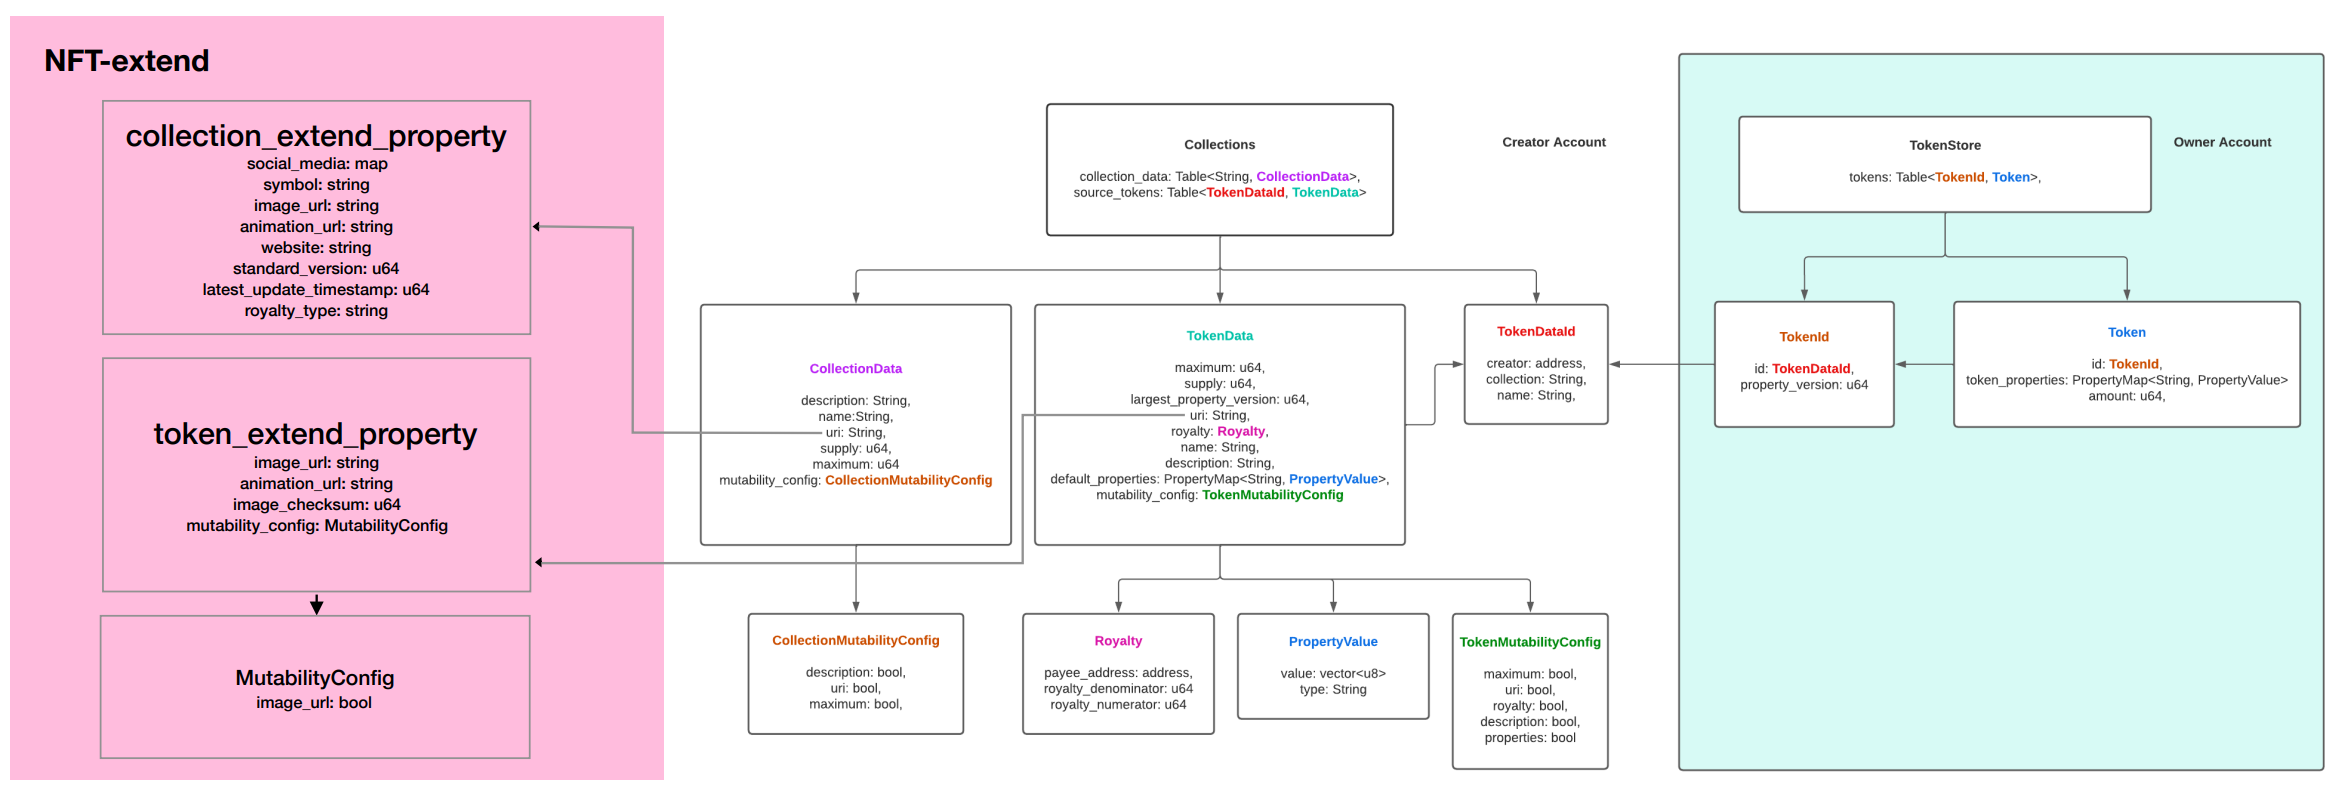
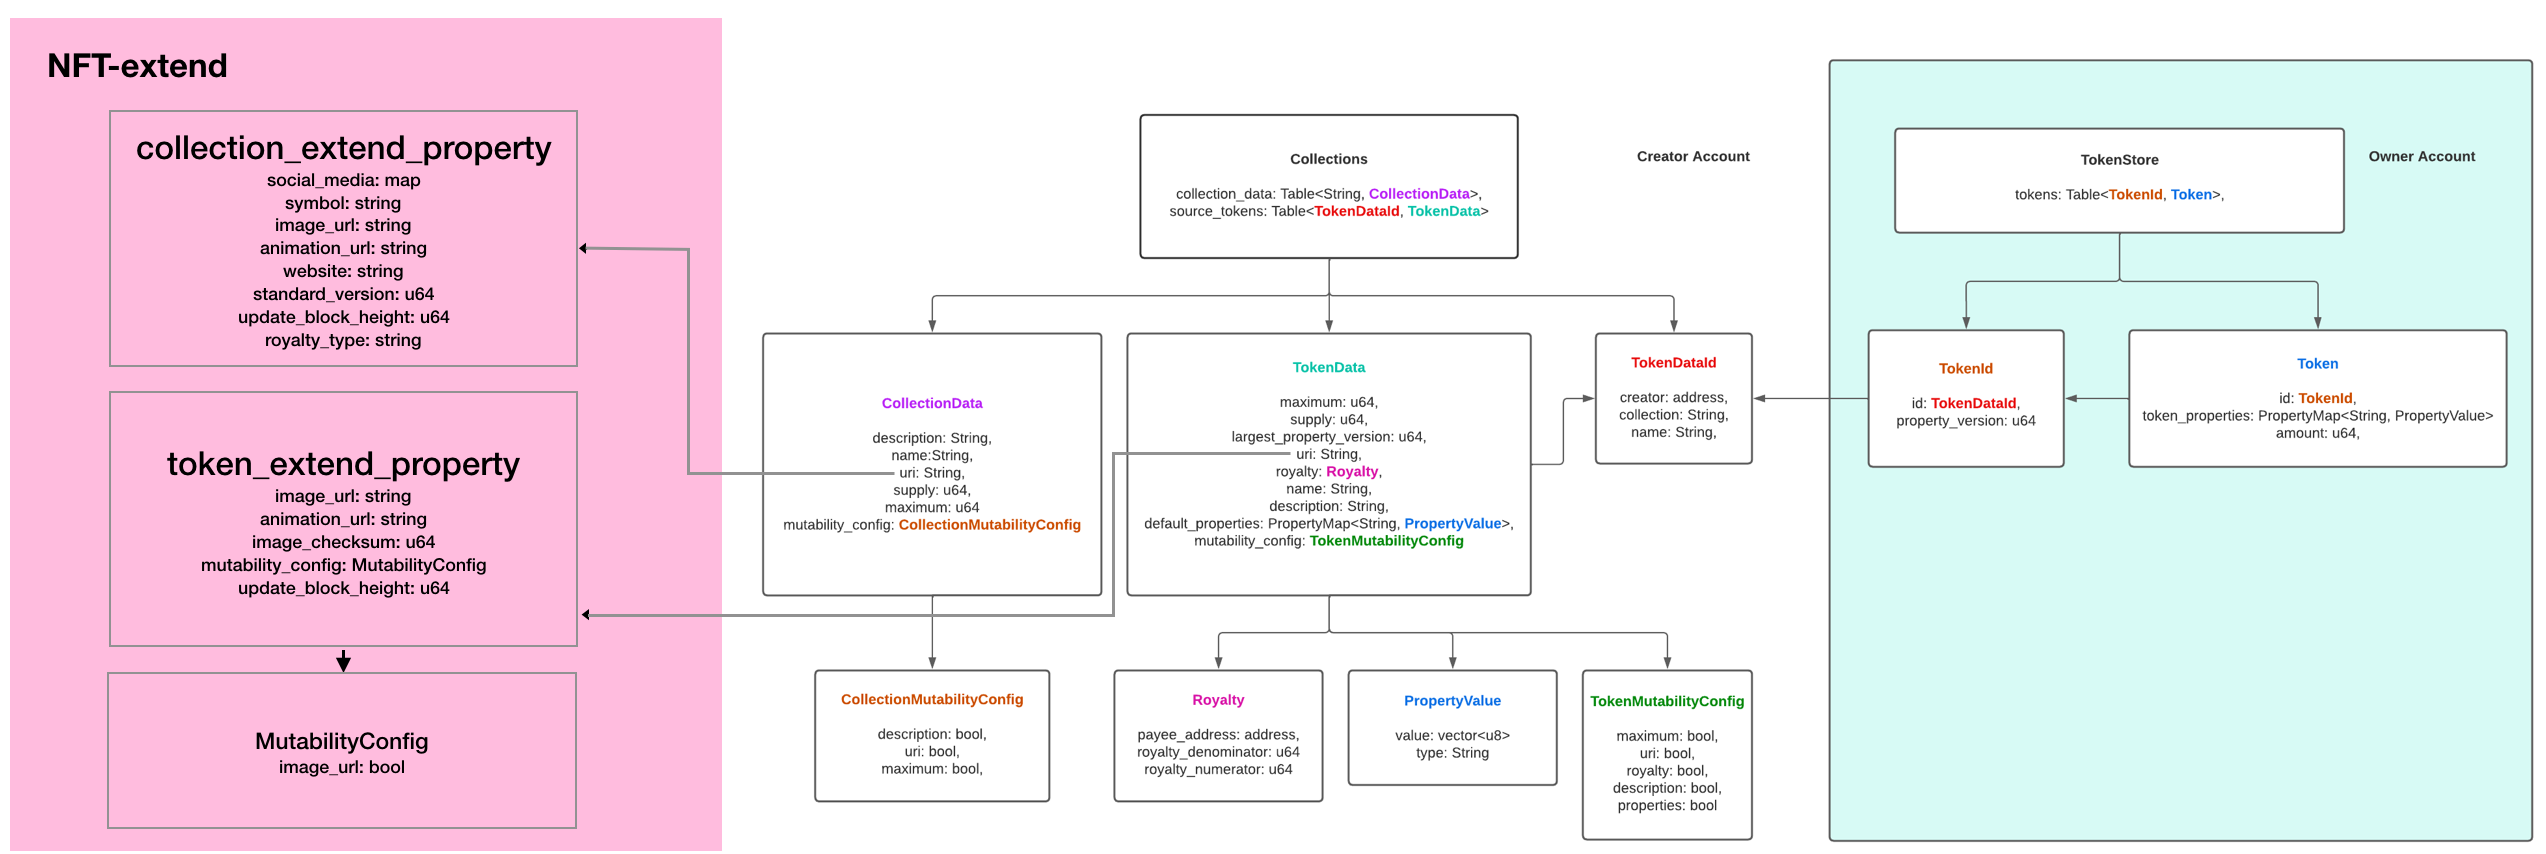
pre release

diff --git a/NFT-standard/NFT-standard.md b/NFT-standard/NFT-standard.md
@@ -6,7 +6,7 @@ The extensions will be done in two parts, one is the collection, and the other i
 # Collections
 
 The standard extension is based on [token.move](https://github.com/aptos-labs/aptos-core/blob/main/aptos-move/framework/aptos-token/sources/token.move) in aptos-token.
-[token.move](https://github.com/aptos-labs/aptos-core/blob/main/aptos-move/framework/aptos-token/sources/token.move) defined the fields in the collection section as following.
+[token.move](https://github.com/aptos-labs/aptos-core/blob/main/aptos-move/framework/aptos-token/sources/token.move) defined the fields in the collection section as follows.
 
 |Metadata	|Type	|Description	|
 |---	|---	|---	|
@@ -15,12 +15,11 @@ The standard extension is based on [token.move](https://github.com/aptos-labs/ap
 |uri	|string 	|Used to locate additional information of this collection	|
 |supply	|u64	|The total amount of token_data issued by the current collection	|
 |maximum	|u64 	|The maximum number of token_data this collection can issue	|
-|mutability_config	|Collection MutabilityConfig |Defines the mutability of description, uri, and maximum|
-
+|mutability_config	|Collection MutabilityConfig 	|Defines the mutability of description, uri, and maximum |
 
 ## extend_property
 
-The extension standard will be implemented using a contract, and the extension properties defined in the contract can be located by uri. uri is described as nft://{contract_address}/{creator::collection}
+The extension standard will be implemented using a contract, and the extension properties defined in the contract can be located by URI. URI is described as nft://{contract_address}/{creator::collection}
 
 |Metadata	|Type	|Description	|
 |---	|---	|---	|
@@ -31,9 +30,8 @@ The extension standard will be implemented using a contract, and the extension p
 |website	|string 	|Collection corresponding official website address	|
 |standard_version	|u64	|The version number will be updated when the collection data is updated.	|
 |commercial_standard	|string	|Used to describe the business protocol standards that collection adheres to, such as cc0, cc by	|
-|update_timestamp	|u64	|Record the timestamp of the last update of the collection, track the update time and compare the content before and after the update	|
-|royalty_policy	|string 	|Describes  which royalty policy to follow，such as x2y2	|
-
+|update_block_height	|u64	|Record the block height of the last update of the collection, track the update time and compare the content before and after the update	|
+|royalty_policy	|string 	|Describes  which royalty policy to follow, such as x2y2	|
 
 # Token
 
@@ -41,18 +39,81 @@ The extension standard will be implemented using a contract, and the extension p
 
 ### extend_property
 
-The extension standard will be implemented using a contract, and the extension properties defined in the contract will be located by uri. Uri is described as nft://{contract_address}/{creator::collection::name}
+The extension standard will be implemented using a contract, and the extension properties defined in the contract will be located by URI. URI is described as nft://{contract_address}/{creator::collection::name}
 
 |Metadata	|Type	|Description	|
 |---	|---	|---	|
 |image_url	|string	|Token image url	|
 |animation_url	|string	|Token Additional multimedia data links, such as gif	|
-|image_checksum	|u64	|For verifying the authenticity of the image	|
+|image_checksum	|u64	|For verifying the authenticity of the image using MD5 	|
 |mutability_config	|bool 	|Describe whether the image can be changed	|
+|update_block_height	|u64	|Record the block height of the last update of the token data, track the update time and compare the content before and after the update	|
+
+### Token Metadata JSON URI
+
+We are compatible with the [EIP-1155](https://eips.ethereum.org/EIPS/eip-1155#metadata) JSON schema, the client needs to implement the following URI to return token_metadata.
+[https://token-cdn-domain/{creator}/{collection_name}/{token_name}.json](https://token-cdn-domain/%7Bcreator%7D/%7Bcollection_name%7D/%7Btoken_name%7D.json).
+The reference is as follows.
+
+```
+{
+    "title": "Token Metadata",
+    "type": "object",
+    "properties": {
+        "name": {
+            "type": "string",
+            "description": "Identifies the asset to which this token represents"
+        },
+        "description": {
+            "type": "string",
+            "description": "Describes the asset to which this token represents"
+        },
+        "image": {
+            "type": "string",
+            "description": "A URI pointing to a resource with mime type image/* representing the asset to which this token represents. Consider making any images at a width between 320 and 1080 pixels and aspect ratio between 1.91:1 and 4:5 inclusive."
+        },
+        "properties": {
+            "type": "object",
+            "description": "Arbitrary properties. Values may be strings, numbers, objects or arrays."
+        }
+    }
+}
+```
+
+The name and description are defined in TokenData at token.move, image is defined in token extend property described above, properties stored in token.move's token_properties in the Token structure, using the fixed "properties" as key, object serialized as string and stored in the corresponding value.
+The returned JSON schema is shown in the following example.
+
+```
+`{
+    "name": "Asset Name",
+    "description": "Lorem ipsum...",
+    "image": "https:\/\/s3.amazonaws.com\/your-bucket\/images\/{id}.png",
+    "properties": {
+        "simple_property": "example value",
+        "rich_property": {
+            "name": "Name",
+            "value": "123",
+            "display_value": "123 Example Value",
+            "class": "emphasis",
+            "css": {
+                "color": "#ffffff",
+                "font-weight": "bold",
+                "text-decoration": "underline"
+            }
+        },
+        "array_property": {
+            "name": "Name",
+            "value": [1,2,3,4],
+            "class": "emphasis"
+        }
+    }
+}`
+```
 
 ## Reference
 
 * https://github.com/aptos-labs/aptos-core/blob/8b826d88b0f17255a753214ede48cbc44e484a97/ecosystem/web-wallet/src/core/types/TokenMetadata.ts
 * https://github.com/aptos-labs/aptos-core/blob/main/aptos-move/framework/aptos-token/sources/token.move
 * https://docs.metaplex.com/programs/token-metadata/token-standard#the-non-fungible-standard
+* https://eips.ethereum.org/EIPS/eip-1155#metadata
 
